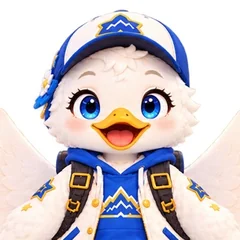
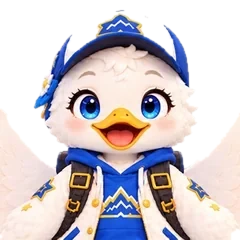
Recording duo: guest stays on stage, bubbles no longer replay; crew 13-24 art without white boxes
- Entry animations now play once per stage phase (in / out / back) and only the newest bubble slides in.
  Before, every line re-render replayed them, so the guest vanished and older bubbles faded or hid
  under the buttons.
- Crew 13-24 full and face images had opaque white backgrounds (white boxes on parchment); the
  edge-connected white is now transparent.
- Cache tag 20261106l.

Claude-Session: https://claude.ai/code/session_01Vw2iKZ5CmUogHwLVzabxpL

diff --git a/rs/rs-app.js b/rs/rs-app.js
@@ -164,7 +164,7 @@
     try { navigator.vibrate && navigator.vibrate([180, 90, 180]); } catch (e) { /* noop */ }
   }
   /* ---------------- crew voice lines (REV06 §31-35): rs/voice/<crew>/<key>.mp3, ElevenLabs ---------------- */
-  const VTAG = '20261106k';
+  const VTAG = '20261106l';
   const REC_TXT = {
     'rec-intro': '오? 녹음할 시간이군.', 'rec-alone': '잠깐… 오늘은 나 혼자 듣기 좀 아까운데?', 'rec-fetch': '같이 들어줄 친구 좀 잡아올게!',
     'rec-back': '잡아왔다!', 'g-arrive': '나는 그냥 지나가고 있었는데?', 'rec-listen': '됐고, 이것 좀 같이 들어봐.',
@@ -449,7 +449,7 @@
       if (it) return `<button class="wk-cell ${it.k}" ${pos} data-act="wkCell" data-key="${key}"><b>${esc(it.t)}</b><span>${it.e}</span></button>`;
       return `<button class="wk-cell free empty" ${pos} data-act="wkCell" data-key="${key}" aria-label="${WK_DAYS[i]}요일 ${s === 'am' ? '오전' : s === 'pm' ? '오후' : '저녁'} 일정 정하기"><b>자유 시간</b><span>⛰</span></button>`;
     };
-    const week = `<div class="wk-head"><img class="wk-map" src="rs/art/home-map.webp?v=20261106k" alt=""><h1>이번 주 여정</h1><p class="wk-sub">오늘도 한 걸음, 더 멋진 너의 이야기를!</p><img class="wk-tent" src="rs/art/home-tent.webp?v=20261106k" alt=""><p class="wk-motto">Same Sky,<br>Different Stories,<br>Together.</p></div>
+    const week = `<div class="wk-head"><img class="wk-map" src="rs/art/home-map.webp?v=20261106l" alt=""><h1>이번 주 여정</h1><p class="wk-sub">오늘도 한 걸음, 더 멋진 너의 이야기를!</p><img class="wk-tent" src="rs/art/home-tent.webp?v=20261106l" alt=""><p class="wk-motto">Same Sky,<br>Different Stories,<br>Together.</p></div>
       <div class="wk-grid">
         ${ti >= 0 ? `<i class="wk-colmark" style="grid-area:1/${ti + 2}/5/${ti + 3}"></i>` : ''}
         ${days.map((d, i) => { const k = ymd(d); return `<button class="wk-day ${i === ti ? 'today' : ''}" style="grid-area:1/${i + 2}" data-act="homeDay" data-day="${k}"><b>${WK_DAYS[i]}</b><small>${i === ti ? '오늘' : `${d.getMonth() + 1}/${d.getDate()}`}</small>${recOf(k).length ? '<i class="wk-dot" aria-label="탐험 기록 있음"></i>' : ''}</button>`; }).join('')}
@@ -459,7 +459,7 @@
       <p class="wk-cheer"><span aria-hidden="true">⛰</span>지금의 너도, 멋지게 성장하고 있어!<span aria-hidden="true">🌤</span></p>
       `;
     const day = UI.homeDay || todayKey, dd = new Date(day + 'T12:00:00'), daily = recOf(day);
-    const dayBody = `<div class="wk-head"><img class="wk-map" src="rs/art/home-map.webp?v=20261106k" alt=""><h1>오늘의 탐험길</h1><p class="wk-sub">작은 계획이, 좋은 하루를 만들어요.</p><img class="wk-tent" src="rs/art/home-tent.webp?v=20261106k" alt=""><p class="wk-motto">Same Sky,<br>Different Stories,<br>Together.</p></div>
+    const dayBody = `<div class="wk-head"><img class="wk-map" src="rs/art/home-map.webp?v=20261106l" alt=""><h1>오늘의 탐험길</h1><p class="wk-sub">작은 계획이, 좋은 하루를 만들어요.</p><img class="wk-tent" src="rs/art/home-tent.webp?v=20261106l" alt=""><p class="wk-motto">Same Sky,<br>Different Stories,<br>Together.</p></div>
       <div class="journey-range"><button data-act="weekMove" data-d="-1" aria-label="이전 날">‹</button><b>${fmt(dd)} (${'일월화수목금토'[dd.getDay()]})</b><button data-act="weekMove" data-d="1" aria-label="다음 날">›</button></div>
       <div class="day-route"><div class="timeline">${daily.map(r => `<article><time>${hhmm(r.startAt)}</time><div><b>${esc(r.tasks.map(t => t.item).join(' · '))}</b><small>${mmss(r.focusMs)} 탐험 기록</small></div></article>`).join('')}<article class="current"><time>${day === todayKey ? hhmm(Date.now()) : '탐험'}</time><div><b>${planTxt ? esc(planTxt) : '새로운 탐험을 시작해요'}</b><button data-act="goSetup">시작하기 →</button></div></article></div></div>
       <div class="week-summary"><h2>이번 주 요약</h2><div><span>기록한 탐험<b>${tasks.length}개</b></span><span>실제 집중 시간<b>${(m => m > 0 && m < 60000 ? '1분 미만' : `${Math.round(m / 60000)}분`)(weekRecs.reduce((n, r) => n + r.focusMs, 0))}</b></span><span class="summary-ring" style="--rate:${rate}%"><strong>${rate}%</strong><small>완료율</small></span></div></div>
@@ -467,9 +467,9 @@
     const ek = UI.wkEdit, pick = ek ? `<div class="wk-pick" role="dialog" aria-label="일정 정하기"><div class="wk-pick-card"><h2>${WK_DAYS[+ek.split('-')[0]]}요일 ${{ am: '오전', pm: '오후', ev: '저녁' }[ek.split('-')[1]]} 일정</h2><p>매주 같은 요일에 반복돼요.</p><div class="wk-pick-grid">${WK_KINDS.map((k, i) => `<button class="wk-cell ${k.k} ${wk[ek] && wk[ek].t === k.t ? 'on' : ''}" data-act="wkSet" data-i="${i}"><b>${k.t}</b><span>${k.e}</span></button>`).join('')}</div><div class="wk-pick-row"><button class="gd-btn" data-act="wkSet" data-i="-1">비우기</button><button class="gd-btn navy" data-act="wkClose">닫기</button></div></div></div>` : '';
     return `<section class="screen wk">
       <div class="wk-bg"><img src="rs/scenes/home-header.webp" alt=""></div>
-      <header class="wk-top"><img class="wk-art" src="rs/art/home-top.webp?v=20261106k" alt="TAKY Ready &amp; Set. 좋은 친구와 어디든 멋진 이야기가 시작돼!"><button class="wk-me" data-act="nav" data-to="settings" aria-label="내 정보"><img src="${P.avatar || P.photo || g.face}" alt=""></button></header>
+      <header class="wk-top"><img class="wk-art" src="rs/art/home-top.webp?v=20261106l" alt="TAKY Ready &amp; Set. 좋은 친구와 어디든 멋진 이야기가 시작돼!"><button class="wk-me" data-act="nav" data-to="settings" aria-label="내 정보"><img src="${P.avatar || P.photo || g.face}" alt=""></button></header>
       <div class="wk-card">${UI.homeView === 'day' ? dayBody : week}</div>
-      <div class="wk-props"><img src="rs/art/home-props.webp?v=20261106k" alt=""><button class="wk-cta" data-act="homeView" data-k="${UI.homeView === 'day' ? 'week' : 'day'}">${I.cal}<span>${UI.homeView === 'day' ? '이번 주 보기' : '오늘 보기'}</span><b aria-hidden="true">›</b></button></div>
+      <div class="wk-props"><img src="rs/art/home-props.webp?v=20261106l" alt=""><button class="wk-cta" data-act="homeView" data-k="${UI.homeView === 'day' ? 'week' : 'day'}">${I.cal}<span>${UI.homeView === 'day' ? '이번 주 보기' : '오늘 보기'}</span><b aria-hidden="true">›</b></button></div>
       <nav class="journey-nav wk-nav"><button class="${UI.homeView === 'day' ? '' : 'on'}" data-act="homeView" data-k="week">${I.home}<span>이번 주 여정</span></button><button data-act="goSetup">${I.target}<span>탐험하기</span></button><button data-act="campView">${MAP_IC}<span>베이스캠프</span></button><button data-act="editGuide">${I.chat}<span>친구들</span></button><button data-act="nav" data-to="settings">${I.gear}<span>더보기</span></button></nav>
       ${pick}
     </section>`;
@@ -620,13 +620,16 @@
       const cur = D.steps[D.i] || [];
       const who = c => c === 'm' ? g : q;
       const last = said.slice(-3);
+      // entry animations play once per stage phase; a re-render for the next line must not replay them
+      const ph = D.out ? 'out' : D.back ? 'back' : 'in'; const fresh = D.ph !== ph; D.ph = ph;
+      const newLine = said.length !== D.shown; D.shown = said.length;   // only the line just spoken slides in
       body = `<h2>${D.done ? '오늘 목소리, 어땠냐면…' : D.out ? '후다닥!' : '잠깐만요…'}</h2>
         <div class="duo-stage ${D.out ? 'out' : ''} ${D.back ? 'back' : ''}" aria-hidden="true">
-          <img class="fig m ${cur[0] === 'm' ? 'talk' : ''}" src="${g.img}" alt="">
-          ${D.back ? `<img class="fig g ${cur[0] === 'g' ? 'talk' : ''}" src="${q.img}" alt="">` : ''}
+          <img class="fig m ${fresh && !D.out ? 'enter' : ''} ${cur[0] === 'm' && !fresh ? 'talk' : ''}" src="${g.img}" alt="">
+          ${D.back ? `<img class="fig g ${fresh ? 'enter' : ''} ${cur[0] === 'g' && !fresh ? 'talk' : ''}" src="${q.img}" alt="">` : ''}
           ${D.out ? '<span class="dust"></span>' : ''}
         </div>
-        <div class="duo" aria-live="polite">${last.map(([c, k]) => `<div class="ln ${c === 'm' ? '' : 'r'}"><img src="${who(c).face}" alt="${esc(who(c).name)}"><div class="bubble"><small>${esc(who(c).name)}</small>${esc(REC_TXT[k])}</div></div>`).join('')}</div>
+        <div class="duo" aria-live="polite">${last.map(([c, k], j) => `<div class="ln ${c === 'm' ? '' : 'r'} ${newLine && j === last.length - 1 ? 'new' : ''}"><img src="${who(c).face}" alt="${esc(who(c).name)}"><div class="bubble"><small>${esc(who(c).name)}</small>${esc(REC_TXT[k])}</div></div>`).join('')}</div>
         ${D.done ? '' : '<button class="link-btn duo-skip" data-act="duoSkip">넘기기</button>'}
         <div style="display:grid;grid-template-columns:1fr 1fr;gap:8px;width:100%"><button class="btn-w" data-act="recRetry">한 번 더 가볼까?</button><button class="btn-y" data-act="recFinal">좋아, 이걸로 제출!</button></div>`;
     } else if (R.phase === 'final') {
@@ -732,7 +735,7 @@
     if (kind === 'sky') mid = `<rect y="318" width="400" height="82" fill="#3f86c2"/><path d="M140 322 Q190 270 250 322Z" fill="#4c8a52"/>${[60, 300].map(x => `<ellipse cx="${x}" cy="120" rx="44" ry="16" fill="#fff" opacity=".85"/>`).join('')}`;
     return `<svg class="plate" viewBox="0 0 400 400" preserveAspectRatio="xMidYMid slice" aria-hidden="true"><defs><linearGradient id="sk-${kind}" x1="0" y1="0" x2="0" y2="1"><stop offset="0" stop-color="${sky[0]}"/><stop offset="1" stop-color="${sky[1]}"/></linearGradient></defs><rect width="400" height="400" fill="url(#sk-${kind})"/>${kind === 'sky' ? '' : mtn}${mid}${kind === 'base' || kind === 'camp' ? pines(kind === 'base' ? 300 : 292, '#2f5b45') : ''}</svg>`;
   }
-  const sceneBg = k => SCENE_FILES.includes(k) ? `<img class="plate" src="rs/scenes/${k}.webp?v=20261106k" alt="">` : plate(k);
+  const sceneBg = k => SCENE_FILES.includes(k) ? `<img class="plate" src="rs/scenes/${k}.webp?v=20261106l" alt="">` : plate(k);
   const gdHead = (n, t, sub) => `<header class="gd-head${n ? '' : ' no-step'}">${n ? `<span class="gd-no">${n}</span>` : ''}<h1>${t}</h1><p>${sub}</p></header>`;
   const gdDots = n => `<div class="gd-dots" aria-label="${n}/8 단계">${Array.from({length: 5}, (_, i) => `<i class="${i < Math.ceil(n * 5 / 8) ? 'on' : ''}"></i>`).join('')}</div>`;
   const arrow = '<svg viewBox="0 0 24 24" width="20" height="20" fill="none" stroke="currentColor" stroke-width="2.4" stroke-linecap="round" stroke-linejoin="round"><path d="M5 12h14M13 6l6 6-6 6"/></svg>';
@@ -825,7 +828,7 @@
     }
     if (s === 'ob3') {
       return wrap('camp', `${gdHead(3, '사진 찍기 / 사진 보관함 등록', '지금의 너를 기록해요. 탐험 여정에 특별한 추억이 될 거예요!')}
-        <div class="gd-photo pd"><img class="pd-bg" src="rs/art/photo-desk.webp?v=20261106k" alt=""><div class="pd-frame">${d.photo ? `<img src="${d.photo}" alt="내 사진">` : `<span class="pd-empty"><svg viewBox="0 0 24 24" width="30" height="30" fill="none" stroke="currentColor" stroke-width="2"><path d="M3 7h5l2-3h4l2 3h5v13H3z"/><circle cx="12" cy="13" r="4"/></svg>내 사진</span>`}</div></div>
+        <div class="gd-photo pd"><img class="pd-bg" src="rs/art/photo-desk.webp?v=20261106l" alt=""><div class="pd-frame">${d.photo ? `<img src="${d.photo}" alt="내 사진">` : `<span class="pd-empty"><svg viewBox="0 0 24 24" width="30" height="30" fill="none" stroke="currentColor" stroke-width="2"><path d="M3 7h5l2-3h4l2 3h5v13H3z"/><circle cx="12" cy="13" r="4"/></svg>내 사진</span>`}</div></div>
         <div class="gd-photo-btns"><label class="gd-btn navy"><svg viewBox="0 0 24 24" width="19" height="19" fill="none" stroke="currentColor" stroke-width="2"><path d="M3 7h5l2-3h4l2 3h5v13H3z"/><circle cx="12" cy="13" r="4"/></svg>사진 찍기<input type="file" accept="image/*" capture="user" data-photo hidden></label><label class="gd-btn">사진 보관함에서 선택<input type="file" accept="image/*" data-photo hidden></label></div><div class="photo-recent" aria-label="이 기기에서 고른 최근 사진">${Array.from({length:4},(_,i)=>(d.recentPhotos||[])[i]?`<button data-act="obRecent" data-i="${i}" aria-label="최근 사진 ${i+1} 선택"><img src="${d.recentPhotos[i]}" alt="최근 사진 ${i+1}"></button>`:`<span aria-label="빈 사진 자리">${I.book}</span>`).join('')}</div>
         <p class="gd-preview">이 사진은 탐험 여정 속에서 프로필로 사용돼요!</p><div class="gd-names"><label>닉네임 <small>공유할 때 앞</small><input class="gd-field" data-draft="nickname" value="${esc(d.nickname)}" placeholder="예: 별이" maxlength="10" autocomplete="off"></label><label>이름 <small>괄호 안</small><input class="gd-field" data-draft="name" value="${esc(d.name)}" placeholder="예: 김하늘" maxlength="10" autocomplete="off"></label></div>
         <p class="gd-preview">공유 이름: <b id="pvName">${esc(shareName({ nickname: d.nickname.trim(), name: d.name.trim() }) || '닉네임(이름)')}</b></p>
@@ -849,7 +852,7 @@
     if (s === 'ob4') {
       return wrap('camp', `${gdHead(4, '아이템 선정 + 느낌 고르기', '탐험에 꼭 필요한 아이템 하나와, 너다운 느낌 두 개를 골라보세요! 길잡이가 하나를 더해 너만의 캐릭터 세 가지를 만들어요.')}
         <p class="gd-label">탐험 아이템 <small>(하나만 선택)</small></p>
-        <div class="gd-items">${ITEMS.map(([k, n]) => `<button class="${d.item === k ? 'on' : ''}" data-act="obItem" data-k="${k}" aria-pressed="${d.item === k}"><img src="rs/items/${k}.webp?v=20261106k" alt=""><span>${n}</span></button>`).join('')}</div>
+        <div class="gd-items">${ITEMS.map(([k, n]) => `<button class="${d.item === k ? 'on' : ''}" data-act="obItem" data-k="${k}" aria-pressed="${d.item === k}"><img src="rs/items/${k}.webp?v=20261106l" alt=""><span>${n}</span></button>`).join('')}</div>
         <p class="gd-label">어떤 느낌이 더 너 같아? <small>두 개 고르면, 세 번째는 ${esc(josa(guideNick(d), '이', '가'))} 골라줘요</small></p>
         <div class="gd-vibes">${(() => { const pk = d.vibes || [], sy = vibeSys(pk); return VIBES.map(([k, n, t]) => { const i = pk.indexOf(k), sys = sy === k; return `<button class="v-${k} ${i >= 0 ? 'on' : ''} ${sys ? 'sys' : ''}" data-act="obVibe" data-k="${k}" aria-pressed="${i >= 0}" ${i < 0 && pk.length >= 2 ? 'disabled' : ''}>${i >= 0 ? `<em class="v-no">${i + 1}</em>` : sys ? `<em class="v-no g">${esc(guideNick(d))} 픽</em>` : ''}<i style="background-image:url(rs/scenes/vibe-${k}.webp)"></i><b>${n}</b><span>${t}</span></button>`; }).join(''); })()}</div>
         <p class="gd-hand">${(d.vibes || []).length === 2 ? '좋아! 이 세 가지 느낌으로 너의 모습을 만들어 볼게!' : '이제, 너만의 탐험대 캐릭터가 준비되고 있어요!'}</p>
@@ -918,7 +921,7 @@
   let scenesWarm = false;
   function preloadScenes() {
     if (scenesWarm) return; scenesWarm = true;
-    const go = () => SCENE_FILES.forEach(k => { const i = new Image(); i.decoding = 'async'; i.src = `rs/scenes/${k}.webp?v=20261106k`; (window.__rsWarm = window.__rsWarm || []).push(i); });
+    const go = () => SCENE_FILES.forEach(k => { const i = new Image(); i.decoding = 'async'; i.src = `rs/scenes/${k}.webp?v=20261106l`; (window.__rsWarm = window.__rsWarm || []).push(i); });
     (window.requestIdleCallback || (f => setTimeout(f, 400)))(go);
   }
   function render() {

diff --git a/rs/rs.css b/rs/rs.css
@@ -231,7 +231,8 @@ canvas.wave { width: 100%; height: 64px; }
 .take span { flex: 1; font-weight: 700; font-size: 14px; }
 .take button { min-height: 36px; padding: 0 10px; border-radius: 10px; background: #f3ecdf; font-weight: 800; font-size: 13px; }
 .duo { display: flex; flex-direction: column; gap: 8px; width: 100%; text-align: left; }
-.duo .ln { display: flex; gap: 8px; align-items: flex-end; animation: up2 .3s both; }
+.duo .ln { display: flex; gap: 8px; align-items: flex-end; }
+.duo .ln.new { animation: up2 .3s both; }
 .duo .ln.r { flex-direction: row-reverse; }
 .duo .ln img { width: 46px; height: 46px; border-radius: 50%; object-fit: cover; background: #fff; border: 2px solid #fff; flex: none; }
 .duo .ln .bubble { font-size: 14px; }
@@ -783,8 +784,10 @@ button:focus-visible,label:focus-within { outline:3px solid #d9a441; outline-off
 /* duo coaching staging (REV06 §31/§34): main dashes out, comes back with the guest */
 .duo-stage { position: relative; width: 100%; height: 132px; flex: none; overflow: hidden; border-bottom: 2px solid rgba(201,154,46,.45); }
 .duo-stage .fig { position: absolute; bottom: 0; height: 124px; width: auto; filter: drop-shadow(0 4px 6px rgba(20,32,60,.25)); }
-.duo-stage .fig.m { left: 14%; animation: duo-in .45s ease-out both; }
-.duo-stage .fig.g { right: 14%; animation: duo-drag .6s ease-out .1s both; }
+.duo-stage .fig.m { left: 14%; }
+.duo-stage .fig.m.enter { animation: duo-in .45s ease-out both; }
+.duo-stage .fig.g { right: 14%; }
+.duo-stage .fig.g.enter { animation: duo-drag .6s ease-out .1s both; }
 .duo-stage.out .fig.m { animation: duo-out .5s ease-in forwards; }
 .duo-stage .fig.talk { animation: duo-talk .9s ease-in-out infinite; }
 .duo-stage .dust { position: absolute; left: 4%; bottom: 10px; width: 70px; height: 34px; border-radius: 50%; background: radial-gradient(circle, rgba(232,214,170,.9), rgba(232,214,170,0) 70%); animation: duo-dust .9s ease-out .25s both; }

diff --git a/sw.js b/sw.js
@@ -1,8 +1,8 @@
 /* Ready & Set service worker — approved-design rebuild (2026-11-05).
    Network-first for pages so updates land; cache-first for versioned static assets.
    Removes caches from earlier builds. */
-const CACHE = 'ready-set:rebuild-20261106k';
-const CORE = ['./', './index.html', './rs/rs.css?v=20261106k', './rs/crew.js?v=20261106k', './rs/rs-app.js?v=20261106k', './rs/home-hero.webp', './manifest.webmanifest', './assets/icon-192.png'];
+const CACHE = 'ready-set:rebuild-20261106l';
+const CORE = ['./', './index.html', './rs/rs.css?v=20261106l', './rs/crew.js?v=20261106l', './rs/rs-app.js?v=20261106l', './rs/home-hero.webp', './manifest.webmanifest', './assets/icon-192.png'];
 self.addEventListener('install', e => { e.waitUntil(caches.open(CACHE).then(c => c.addAll(CORE)).then(() => self.skipWaiting())); });
 self.addEventListener('activate', e => { e.waitUntil(caches.keys().then(ks => Promise.all(ks.filter(k => k !== CACHE).map(k => caches.delete(k)))).then(() => self.clients.claim())); });
 self.addEventListener('fetch', e => {

diff --git a/rs/crew.js b/rs/crew.js
@@ -30,7 +30,7 @@
     ['guide-24', '비비', ['유대', '즐거움', '창의', '특별함'], '함께라면 더 재미있어!']
   ].map(([id, name, keywords, signature], i) => {
     const n = String(i + 1).padStart(2, '0');
-    return { id, n, name, keywords, signature, core: i < 6, img: `rs/crew/${n}.webp`, face: `rs/crew/${n}-face.webp`, voice: `rs/voice/${n}.mp3?v=20261106k` };
+    return { id, n, name, keywords, signature, core: i < 6, img: `rs/crew/${n}.webp`, face: `rs/crew/${n}-face.webp`, voice: `rs/voice/${n}.mp3?v=20261106l` };
   });
   const byId = Object.fromEntries(C.map(c => [c.id, c]));
   window.RSCrew = { all: C, core: C.slice(0, 6), get: id => byId[id] || C[0] };

diff --git a/index.html b/index.html
@@ -16,12 +16,12 @@
 <link rel="preconnect" href="https://fonts.googleapis.com">
 <link rel="preconnect" href="https://fonts.gstatic.com" crossorigin>
 <link rel="stylesheet" href="https://fonts.googleapis.com/css2?family=Nanum+Pen+Script&display=swap">
-<link rel="stylesheet" href="rs/rs.css?v=20261106k">
+<link rel="stylesheet" href="rs/rs.css?v=20261106l">
 </head>
 <body>
 <div id="app" aria-live="polite"></div>
 <div id="toast" role="status"></div>
-<script src="rs/crew.js?v=20261106k"></script>
-<script src="rs/rs-app.js?v=20261106k"></script>
+<script src="rs/crew.js?v=20261106l"></script>
+<script src="rs/rs-app.js?v=20261106l"></script>
 </body>
 </html>
